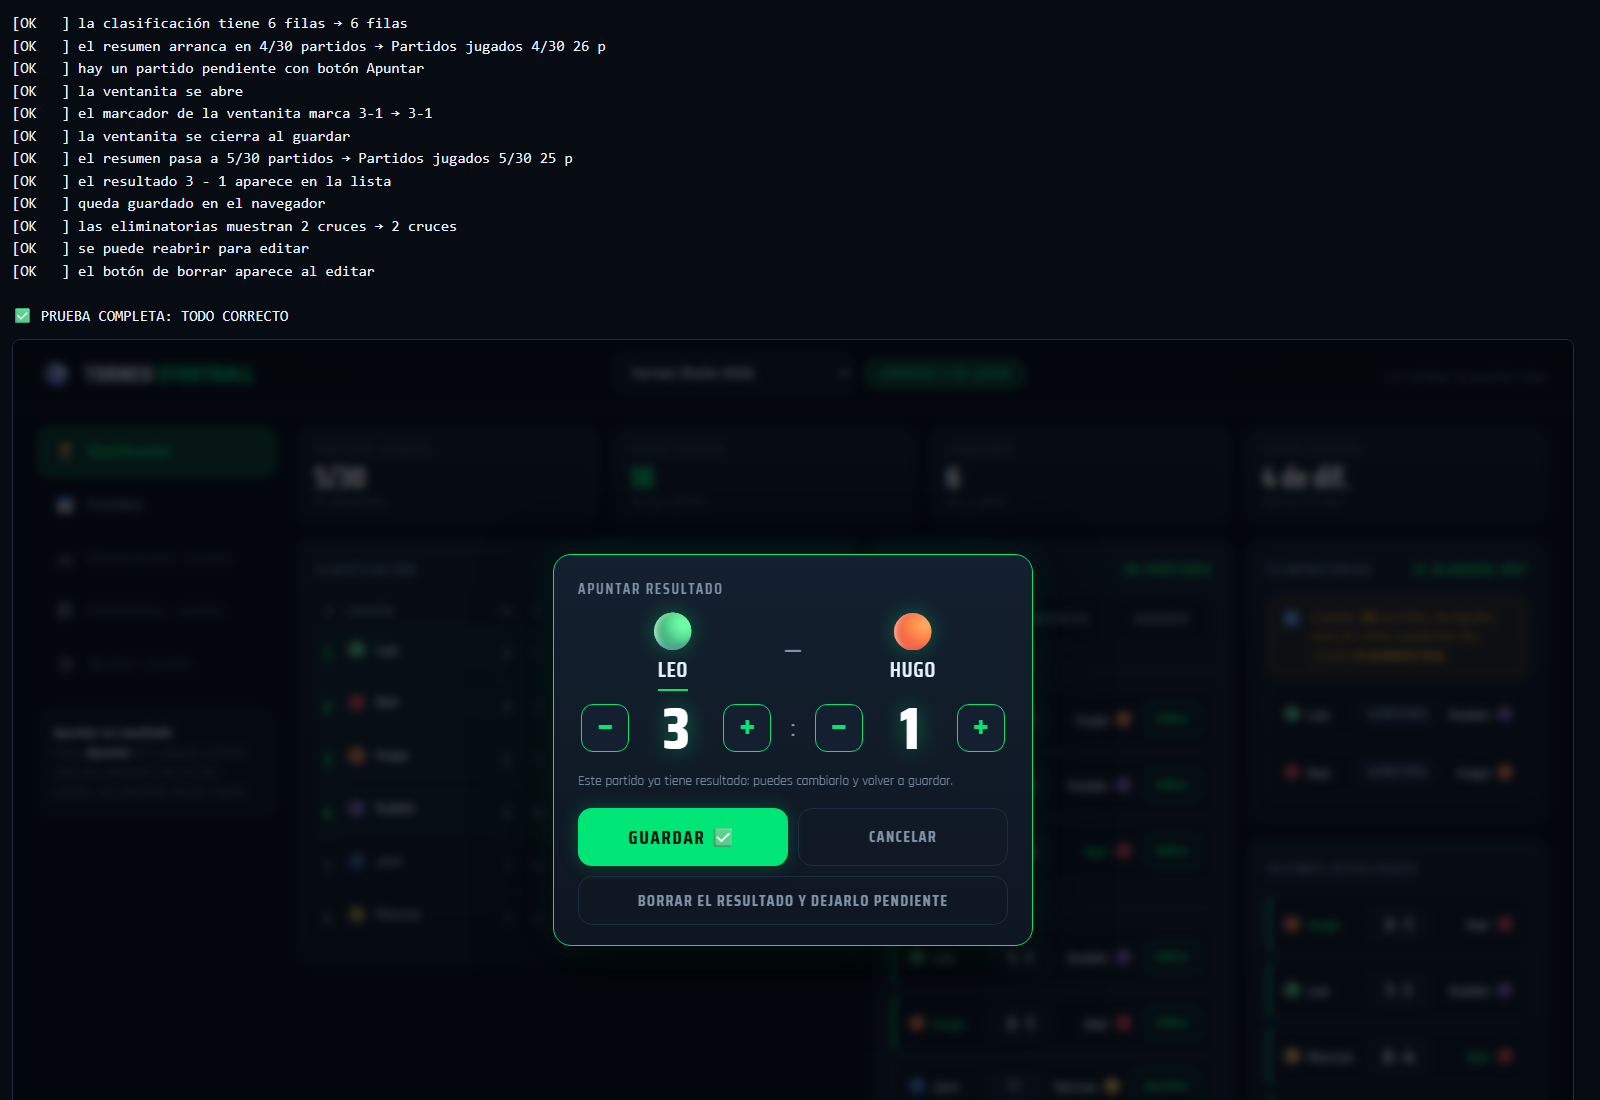
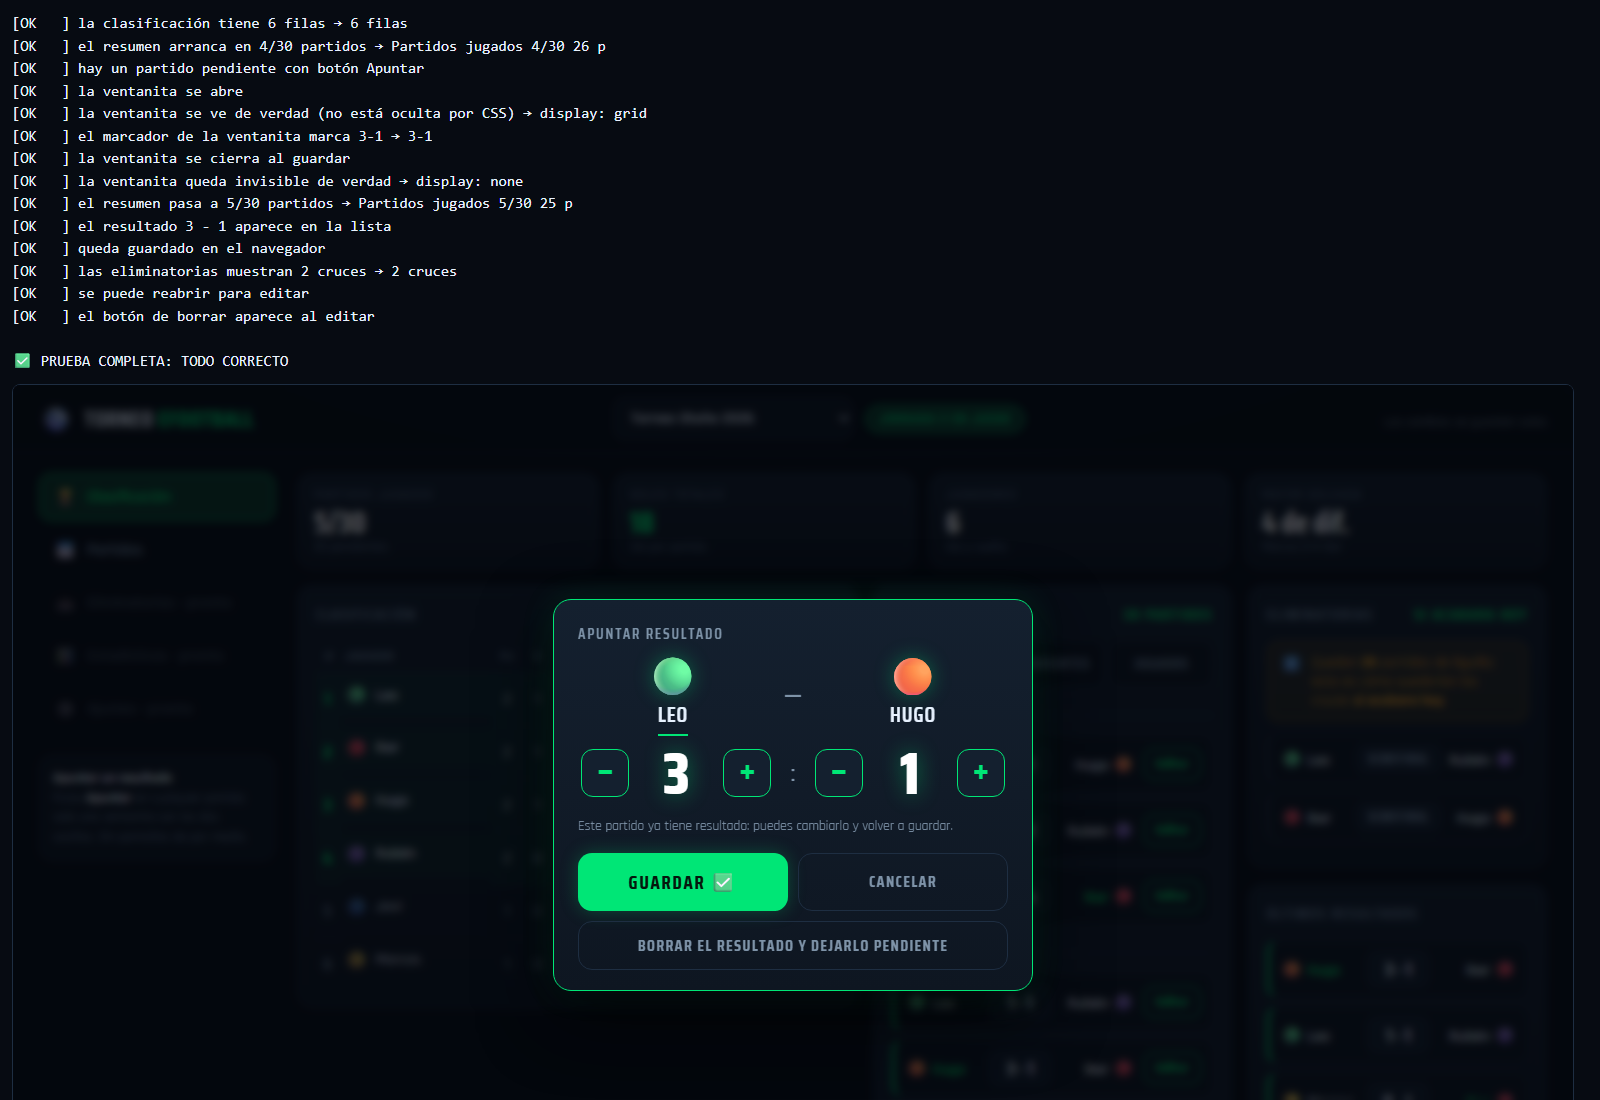
Arreglo: el atributo hidden no bastaba con display:grid; tests de visibilidad real

diff --git a/docs/prueba-flujo.html b/docs/prueba-flujo.html
@@ -45,6 +45,8 @@ document.getElementById('marco').onload = () => {
 
     // 4. La ventanita se abre
     ok('la ventanita se abre', d.getElementById('modal-fondo').hidden === false);
+    const displayAbierto = d.defaultView.getComputedStyle(d.getElementById('modal-fondo')).display;
+    ok('la ventanita se ve de verdad (no está oculta por CSS)', displayAbierto !== 'none', 'display: ' + displayAbierto);
 
     // 5. Poner un 3-1 con los botones
     const masLocal = d.querySelector('[data-modal-paso="local"][data-delta="1"]');
@@ -57,6 +59,9 @@ document.getElementById('marco').onload = () => {
     // 6. Guardar
     d.getElementById('modal-guardar').click();
     ok('la ventanita se cierra al guardar', d.getElementById('modal-fondo').hidden === true);
+    // Lo que de verdad importa: que NO se vea (el atributo hidden vs el CSS)
+    const displayCerrado = d.defaultView.getComputedStyle(d.getElementById('modal-fondo')).display;
+    ok('la ventanita queda invisible de verdad', displayCerrado === 'none', 'display: ' + displayCerrado);
 
     // 7. El resumen ya cuenta 5 partidos
     const resumenDespues = d.getElementById('resumen').textContent;

diff --git a/css/estilos.css b/css/estilos.css
@@ -31,6 +31,10 @@
 * { box-sizing: border-box; }
 html, body { overflow-x: hidden; }
 
+/* IMPORTANTE: el atributo hidden manda siempre, aunque la clase defina un display.
+   Sin esto, un modal con display:grid se queda visible al "cerrarlo" con hidden. */
+[hidden] { display: none !important; }
+
 body {
   margin: 0;
   background:
